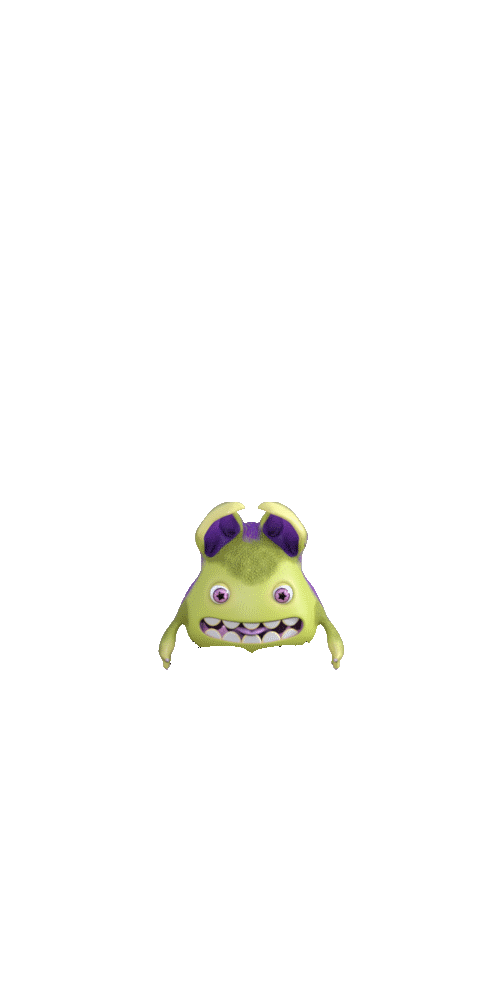
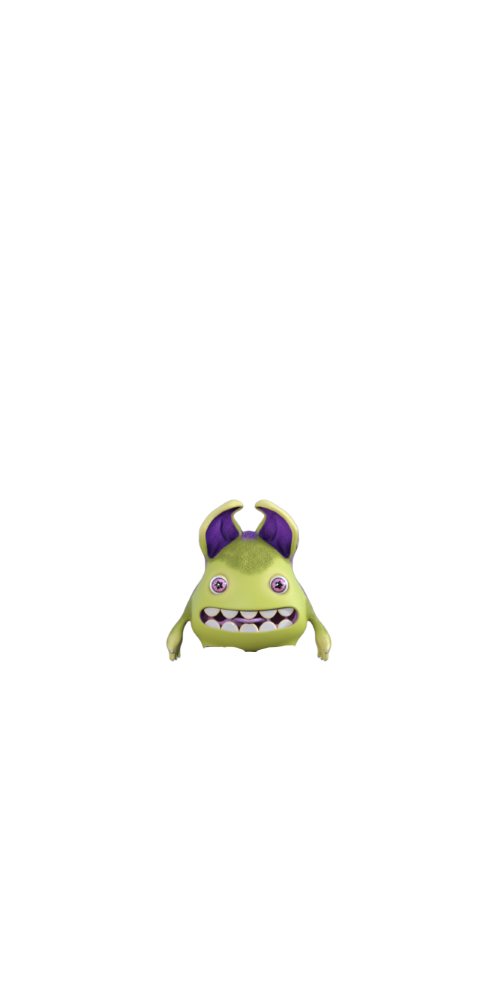
familiars

Changed region(s): [[0.3, 0.496, 0.69, 0.682]]

diff --git a/BondageClub/Assets/Female3DCG/Female3DCG.js b/BondageClub/Assets/Female3DCG/Female3DCG.js
@@ -1031,7 +1031,7 @@ var AssetFemale3DCG = [
 		Activity: ["Bite", "Kiss", "Lick", "Nibble", "Tickle", "Spank", "Caress", "MassageHands", "Grope", "SpankItem", "TickleItem", "RubItem", "RollItem", "MasturbateItem", "PourItem", "ShockItem"],
 		Asset: [
 			{ Name: "NylonRope", Fetish: ["Rope", "Nylon"], Value: 30, Time: 15, DefaultColor: "#909090", BuyGroup: "NylonRope", SetPose: ["LegsClosed"], Audio: "RopeShort", AllowActivePose: ["Kneel"] },
-			{ Name: "HempRope", Fetish: ["Rope"], Value: 60, Difficulty: 3, Time: 15, DefaultColor: "#956B1C", BuyGroup: "HempRope", HideItem: ["ItemDevicesTeddyBear", "ItemDevicesLittleMonster"], SetPose: ["LegsClosed"], AllowType: ["Mermaid", "Suspension", "FullBinding", "Diamond", "Link"], Audio: "RopeShort", Extended: true, AllowActivePose: ["Kneel"] },
+			{ Name: "HempRope", Fetish: ["Rope"], Value: 60, Difficulty: 3, Time: 15, DefaultColor: "#956B1C", BuyGroup: "HempRope", HideItem: ["ItemDevicesTeddyBear", "ItemDevicesLittleMonster", "ItemDevicesFamiliar"], SetPose: ["LegsClosed"], AllowType: ["Mermaid", "Suspension", "FullBinding", "Diamond", "Link"], Audio: "RopeShort", Extended: true, AllowActivePose: ["Kneel"] },
 			{ Name: "LeatherBelt", Fetish: ["Leather"], Value: 25, Time: 10, RemoveTime: 5, AllowLock: true, SetPose: ["LegsClosed"], AllowActivePose: ["Kneel"] },
 			{ Name: "SturdyLeatherBelts", Fetish: ["Leather"], Value: 50, Time: 10, RemoveTime: 5, AllowLock: true, BuyGroup: "SturdyLeatherBelts", SetPose: ["LegsClosed"], AllowType: ["Two", "Three"], Extended: true, AllowActivePose: ["Kneel"] },
 			{ Name: "Irish8Cuffs", Fetish: ["Metal"], Value: 25, Time: 10, RemoveTime: 5, AllowLock: true, Audio: "CuffsMetal", SetPose: ["LegsClosed"], AllowActivePose: ["Kneel"] },
@@ -1112,7 +1112,7 @@ var AssetFemale3DCG = [
 			{ Name: "SeamlessLegBinder", Value: 80, Difficulty: 15, Time: 30, RemoveTime: 20, AllowLock: true, DefaultColor: "#222222", Prerequisite: ["NotSuspended", "NotHogtied"], Hide: ["Shoes"], HideItem: ["ItemFeetOrnateAnkleCuffs", "ItemFeetNylonRope", "ItemFeetHempRope", "ItemFeetLeatherBelt", "ItemFeetLeatherAnkleCuffs", "ItemBootsThighHighLatexHeels", "ClothLowerPajama1", "SocksSocks6", "SocksSocksFur"], SetPose: ["LegsClosed"], Effect: ["Prone"], Block: ["ItemFeet"], AllowActivePose: ["Kneel"] },
 			{ Name: "SeamlessHobbleSkirt", Value: 125, Difficulty: 15, Time: 30, RemoveTime: 20, AllowLock: true, DefaultColor: "#222222", Prerequisite: ["NotSuspended", "NotHogtied"], Hide: ["Shoes"], HideItem: ["ItemFeetOrnateAnkleCuffs", "ItemFeetNylonRope", "ItemFeetHempRope", "ItemFeetLeatherBelt", "ItemFeetLeatherAnkleCuffs", "ItemBootsThighHighLatexHeels", "ClothLowerPajama1", "ClothLowerShorts1", "ClothLowerJeans1", "ClothLowerJeans2", "ClothLowerLatexPants1", "ClothLowerMistressBottom", "ClothLowerPencilSkirt", "SocksSocks6", "SocksSocksFur"], SetPose: ["LegsClosed"], Effect: ["Prone"], Block: ["ItemPelvis", "ItemFeet", "ItemVulva", "ItemVulvaPiercings", "ItemButt"], AllowActivePose: ["Kneel"] },
 			{
-				Name: "WoodenHorse", Priority: 34, Value: 200, Difficulty: 2, Time: 10, Random: false, Prerequisite: ["NotKneeling", "LegsOpen", "NotSuspended", "NotHogtied", "NotShackled"], Hide: ["Shoes", "Socks", "ItemBoots"], HideItem: ["ClothLowerPajama1", "ClothLowerShorts1", "ClothLowerJeans1", "ClothLowerJeans2", "ClothLowerWaspie1", "ClothLowerWaspie2", "ClothLowerWaspie3", "ClothLowerGown2Skirt", "ClothLowerLatexPants1", "ItemDevicesTeddyBear", "ItemDevicesLittleMonster", "SuitLowerReverseBunnySuit", "ClothLowerJeansShorts" ], SetPose: ["Horse"], Effect: ["Prone", "Freeze", "Mounted"], Alpha: [{ Masks: [[160, 720, 200, 240]] }], Block: ["ItemFeet", "ItemBoots"], ExpressionTrigger: [{ Name: "Medium", Group: "Blush", Timer: 10 }, { Name: "Closed", Group: "Eyes", Timer: 5 }],
+				Name: "WoodenHorse", Priority: 34, Value: 200, Difficulty: 2, Time: 10, Random: false, Prerequisite: ["NotKneeling", "LegsOpen", "NotSuspended", "NotHogtied", "NotShackled"], Hide: ["Shoes", "Socks", "ItemBoots"], HideItem: ["ClothLowerPajama1", "ClothLowerShorts1", "ClothLowerJeans1", "ClothLowerJeans2", "ClothLowerWaspie1", "ClothLowerWaspie2", "ClothLowerWaspie3", "ClothLowerGown2Skirt", "ClothLowerLatexPants1", "ItemDevicesTeddyBear", "ItemDevicesLittleMonster", "ItemDevicesFamiliar", "SuitLowerReverseBunnySuit", "ClothLowerJeansShorts" ], SetPose: ["Horse"], Effect: ["Prone", "Freeze", "Mounted"], Alpha: [{ Masks: [[160, 720, 200, 240]] }], Block: ["ItemFeet", "ItemBoots"], ExpressionTrigger: [{ Name: "Medium", Group: "Blush", Timer: 10 }, { Name: "Closed", Group: "Eyes", Timer: 5 }],
 				Layer: [
 					{ Name: "Frame" },
 					{ Name: "Wood" }
@@ -2795,6 +2795,7 @@ var AssetFemale3DCG = [
 			{ Name: "BondageBench", Fetish: ["Leather"], Priority: 1, Value: 250, SelfBondage: 4, Time: 10, RemoveTime: 10, Prerequisite: ["NotKneeling", "AllFours", "NotSuspended", "NotHogtied", "NoFeetSpreader"], SetPose: ["LegsClosed"], Effect: ["Block", "Prone", "Freeze", "Mounted"], Extended: true, RemoveAtLogin: true },
 			{ Name: "TeddyBear", Fetish: ["ABDL"], Priority: 34, Value: 30, Difficulty: -10, Time: 5, IsRestraint: false, AllowPose: ["AllFours", "Hogtied", "TapedHands", "BackBoxTie", "BackCuffs", "BackElbowTouch", "Bolero", "Horse", "StraitDressOpen", "Yoked"], Effect: [], AllowType: ["Bear", "Fox", "Kitty", "Pup", "Bunny", "Pony"], Extended: true, RemoveAtLogin: true },
 			{ Name: "LittleMonster", Priority: 34, Value: 40, Difficulty: -10, Time: 5, IsRestraint: false, AllowPose: ["AllFours", "Hogtied", "TapedHands", "BackBoxTie", "BackCuffs", "BackElbowTouch", "Bolero", "Horse", "StraitDressOpen", "Yoked"], Effect: [], AllowType: ["Black", "Red", "Green", "Blue"], Extended: true, RemoveAtLogin: true },
+			{ Name: "Familiar", Priority: 6, Value: 240, Difficulty: -10, Time: 5, IsRestraint: false, AllowPose: ["AllFours", "Hogtied", "TapedHands", "BackBoxTie", "BackCuffs", "BackElbowTouch", "Bolero", "Horse", "StraitDressOpen", "Yoked"], Effect: [], AllowType: ["Bat", "Cat", "Skeleton", "Parrot"], Extended: true, RemoveAtLogin: true },
 			{
 				Name: "OneBarPrison", Fetish: ["Metal"], Priority: 16, Value: 75, Difficulty: 8, SelfBondage: 2, Time: 20, AllowLock: true, Prerequisite: ["AccessVulva", "AllFours", "LegsOpen", "NotSuspended", "NotHogtied", "NotHorse", "NotKneeling", "NotChaste", "StraitDressOpen"], SetPose: ["LegsOpen"], Effect: ["FillVulva", "Prone", "Freeze", "Mounted"], Block: ["ItemPelvis", "ItemLegs", "ItemVulva", "ItemFeet"], Layer: [
 					{ Name: "Bar", AllowColorize: true },

diff --git a/BondageClub/Screens/Inventory/ItemDevices/Familiar/Familiar.js b/BondageClub/Screens/Inventory/ItemDevices/Familiar/Familiar.js
@@ -1,0 +1,48 @@
+"use strict";
+
+var InventoryItemDevicesFamiliarOptions = [
+	{
+		Name: "Bat",
+		Property: { Type: null },
+	},
+	{
+		Name: "Cat",
+		Property: { Type: "Cat" },
+	},
+	{
+		Name: "Skeleton",
+		Property: { Type: "Skeleton" },
+	},
+	{
+		Name: "Parrot",
+		Property: { Type: "Parrot" },
+	},
+];
+
+// Loads the item extension properties
+function InventoryItemDevicesFamiliarLoad() {
+	ExtendedItemLoad(InventoryItemDevicesFamiliarOptions, "SelectFamiliarType");
+}
+
+// Draw the item extension screen
+function InventoryItemDevicesFamiliarDraw() {
+	ExtendedItemDraw(InventoryItemDevicesFamiliarOptions, "FamiliarType");
+}
+
+// Catches the item extension clicks
+function InventoryItemDevicesFamiliarClick() {
+	ExtendedItemClick(InventoryItemDevicesFamiliarOptions);
+}
+
+function InventoryItemDevicesFamiliarPublishAction(C, Option) {
+	var msg = "FamiliarSet" + Option.Name;
+	var Dictionary = [
+		{ Tag: "SourceCharacter", Text: Player.Name, MemberNumber: Player.MemberNumber },
+		{ Tag: "TargetCharacter", Text: C.Name, MemberNumber: C.MemberNumber },
+	];
+	ChatRoomPublishCustomAction(msg, true, Dictionary);
+}
+
+function InventoryItemDevicesFamiliarNpcDialog(C, Option) {
+	C.CurrentDialog = DialogFind(C, "FamiliarSet" + Option.Name, "ItemDevices");
+}

diff --git a/BondageClub/index.html b/BondageClub/index.html
@@ -193,6 +193,8 @@
 <script src="Screens/Inventory/ItemVulva/LoversVibrator/LoversVibrator.js"></script>
 <script src="Screens/Inventory/ItemButt/InflVibeButtPlug/InflVibeButtPlug.js"></script>
 <script src="Screens/Inventory/ItemDevices/TeddyBear/TeddyBear.js"></script>
+<script src="Screens/Inventory/ItemDevices/LittleMonster/LittleMonster.js"></script>
+<script src="Screens/Inventory/ItemDevices/Familiar/Familiar.js"></script>
 <script src="Screens/Inventory/ItemArms/LeatherStraitJacket/LeatherStraitJacket.js"></script>
 <script src="Screens/Inventory/ItemArms/CollarCuffs/CollarCuffs.js"></script>
 <script src="Screens/Inventory/ItemDevices/InflatableBodyBag/InflatableBodyBag.js"></script>
